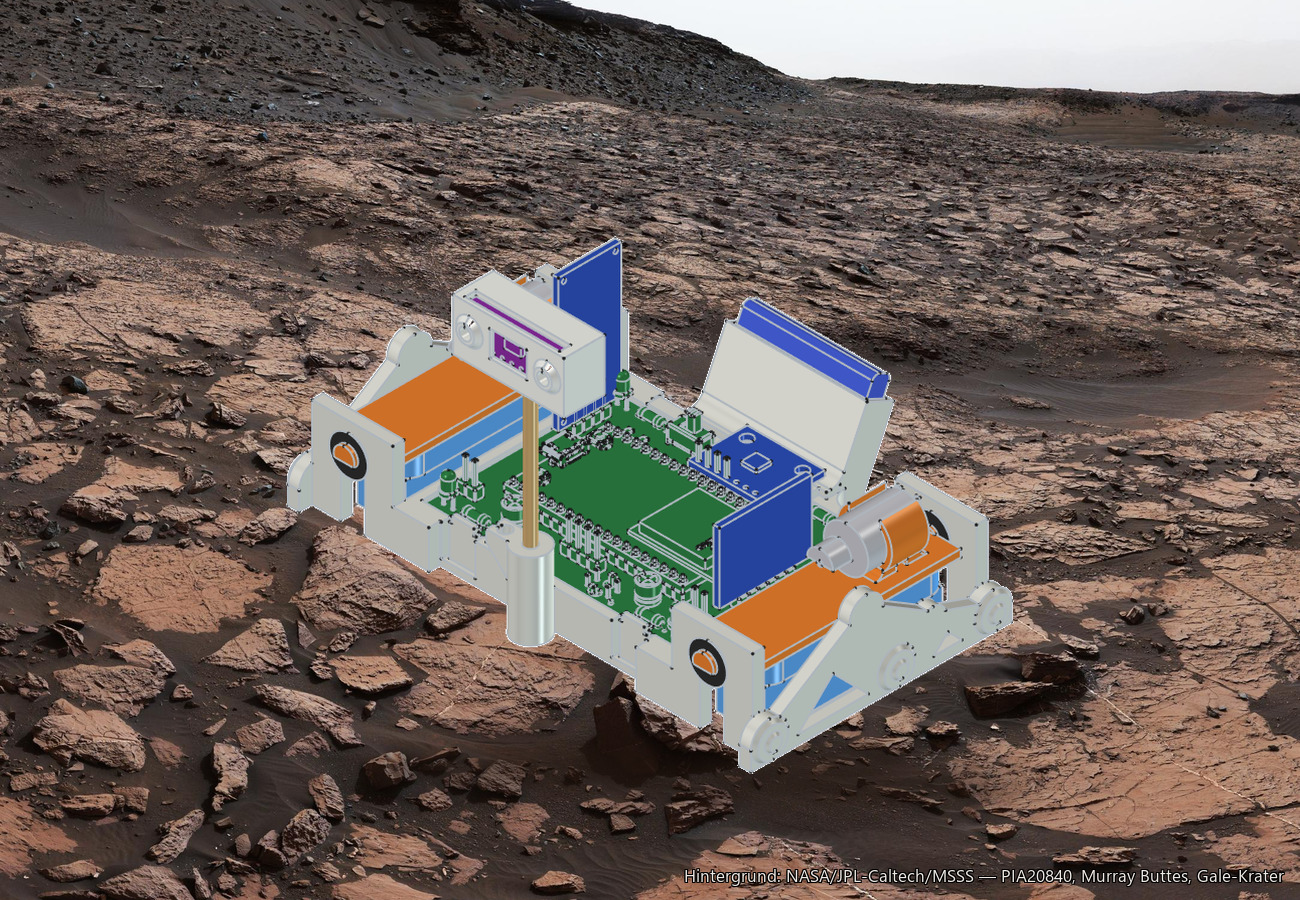
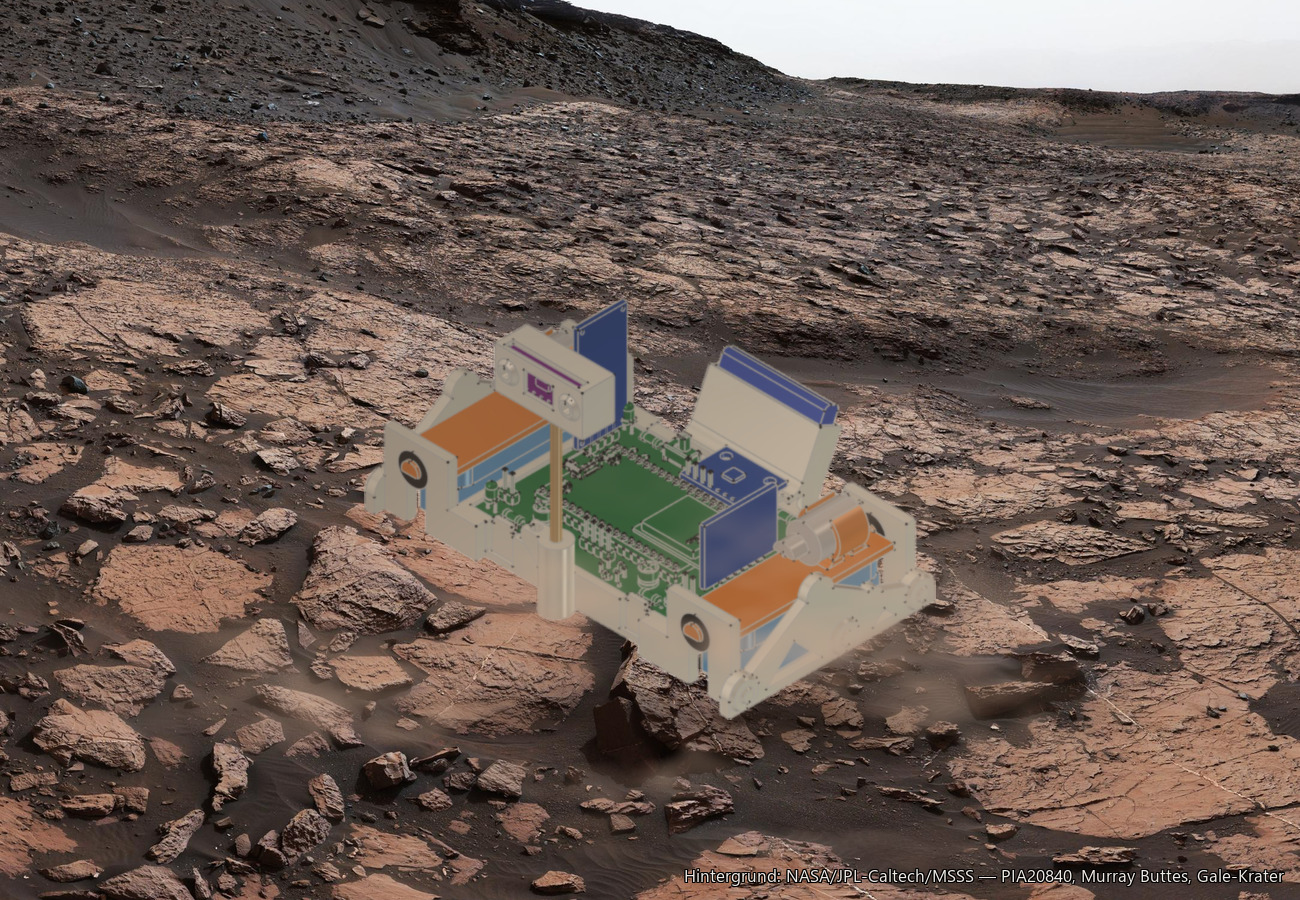
Titelbild natuerlicher: Licht angeglichen, Kanten weich, Staubwolke davor
Der erste Wurf sah nach aufgeklebt aus. Gegenmittel, alle als Stellschrauben
in Gehaeuse_CAD/montage_marslandschaft.py:

* kleiner und hoeher gesetzt (44 % Bildbreite, Aufstandslinie bei 80 %)
* Alphakante 1,6 px weichgezeichnet und nachgezogen, damit sie nicht
  aufquillt; Farbkanal um 0,7 px entschaerft
* Beleuchtung: FreeCAD leuchtet aus der Kamera, gleichmaessig. Im
  Hintergrund steht die Sonne oben links -- an den Steinen abgelesen, helle
  Flanke links, Schatten nach rechts unten. Also gerichteter Verlauf
  +-24 %, dazu 10 % dunkler, waermerer Grundton, 20 % weniger Farbigkeit
* weicher Wurfschatten nach rechts unten PLUS schmaler Kontaktschatten
  direkt unter dem Fahrwerk, sonst schwebt er
* 20 % Hintergrundfarbe eingemischt (Luftperspektive)

Staubwolke davor: in X gestrecktes Rauschen aus drei Oktaven ergibt
windgezogene Schlieren, drei Schwaden statt einer gleichmaessigen Wolke.
Entscheidend war, dass Staub nicht nur aufhellt, sondern dem Untergrund
auch die Zeichnung nimmt -- Aufhellen allein wirkt wie ein Schleier ueber
dem ganzen Bild. Maske: Spitze 0,47, 4 % der Flaeche.

Changed region(s): [[0.1231, 0.2489, 0.8308, 0.9022], [0.7077, 0.84, 0.8, 0.9022], [0.6769, 0.8711, 0.7077, 0.9022]]

diff --git a/Gehaeuse_CAD/montage_marslandschaft.py b/Gehaeuse_CAD/montage_marslandschaft.py
@@ -1,0 +1,129 @@
+# Rover in die Marslandschaft einpassen: Groesse, Licht, Kanten, Staub.
+import os, sys
+import numpy as np
+from PIL import Image, ImageFilter, ImageDraw, ImageFont
+
+SP = sys.argv[1]
+ZIEL = (1300, 900)
+W, H = ZIEL
+
+# ---------- Stellschrauben ----------
+GROESSE   = 0.44    # Breite des Rovers als Anteil der Bildbreite (kleiner = weiter hinten)
+BODEN     = 0.80    # Hoehe, auf der er aufsetzt (hoeher im Bild = weiter hinten)
+DUNST     = 0.20    # wieviel Hintergrundfarbe in den Rover gemischt wird (Luftperspektive)
+SATT      = 0.80    # Farbigkeit des Rovers (1 = wie gerendert)
+WEICH     = 1.6     # Weichzeichnung der Silhouettenkante in Pixeln
+LICHT     = (-1.0, -1.0)   # Sonnenrichtung in Bildkoordinaten: von oben links
+STAUB     = 0.80    # Staerke der Staubwolke
+
+hg = Image.open(os.path.join(SP, "hintergrund.png")).convert("RGB")
+
+# ---------- Rover vorbereiten ----------
+rov = Image.open(os.path.join(SP, "rover_freigestellt.png")).convert("RGBA")
+rov = rov.crop(rov.getchannel("A").getbbox())
+bw = int(W * GROESSE)
+bh = int(rov.size[1] * bw / rov.size[0])
+rov = rov.resize((bw, bh), Image.LANCZOS)
+px, py = (W - bw) // 2, int(H * BODEN) - bh
+
+rgb = np.asarray(rov.convert("RGB"), dtype=np.float32) / 255.0
+alpha = np.asarray(rov.getchannel("A"), dtype=np.float32) / 255.0
+
+# ---------- Licht: gerichteter Verlauf statt FreeCADs Kameralicht ----------
+yy, xx = np.mgrid[0:bh, 0:bw].astype(np.float32)
+nx = (xx / bw - 0.5) * 2.0
+ny = (yy / bh - 0.5) * 2.0
+lx, ly = LICHT
+richt = -(nx * lx + ny * ly) / np.sqrt(lx * lx + ly * ly) / 2.0     # -1 .. +1
+hell = 1.0 + richt * 0.24                                          # oben links heller
+rgb *= hell[..., None]
+rgb *= 0.90                                                        # Mars bekommt weniger Sonne
+rgb *= np.array([1.075, 0.995, 0.885], dtype=np.float32)           # warmer Grundton
+
+grau = (rgb * np.array([0.299, 0.587, 0.114], dtype=np.float32)).sum(-1, keepdims=True)
+rgb = grau * (1.0 - SATT) + rgb * SATT
+
+# ---------- Luftperspektive: Hintergrundfarbe einmischen ----------
+umfeld = np.asarray(hg.crop((px, py, px + bw, py + bh)).filter(
+    ImageFilter.GaussianBlur(40)), dtype=np.float32) / 255.0
+rgb = rgb * (1.0 - DUNST) + umfeld * DUNST
+rgb = np.clip(rgb, 0.0, 1.0)
+
+rov = Image.fromarray((rgb * 255).astype(np.uint8), "RGB")
+rov = rov.filter(ImageFilter.GaussianBlur(0.7))                    # Kanten nicht knackscharf
+
+# Silhouette weichzeichnen, aber nicht aufblaehen
+a = Image.fromarray((alpha * 255).astype(np.uint8), "L").filter(ImageFilter.GaussianBlur(WEICH))
+a = a.point(lambda v: max(0, min(255, int((v - 40) * 255 / 190))))
+rov.putalpha(a)
+
+# ---------- Schlagschatten nach rechts unten ----------
+sh_h = max(1, int(bh * 0.15))
+sch = Image.new("L", ZIEL, 0)
+sch.paste(a.resize((bw, sh_h), Image.LANCZOS), (px + int(bw * 0.07), int(H * BODEN) - sh_h // 2))
+sch = sch.filter(ImageFilter.GaussianBlur(15)).point(lambda v: int(v * 0.52))
+# Kontaktschatten: schmaler, dunkler, direkt unter dem Fahrwerk
+k_h = max(1, int(bh * 0.055))
+kon = Image.new("L", ZIEL, 0)
+kon.paste(a.crop((0, int(bh * 0.86), bw, bh)).resize((int(bw * 0.92), k_h), Image.LANCZOS),
+          (px + int(bw * 0.055), int(H * BODEN) - k_h // 2))
+kon = kon.filter(ImageFilter.GaussianBlur(5)).point(lambda v: int(v * 0.80))
+sch = Image.fromarray(np.maximum(np.asarray(sch), np.asarray(kon)), "L")
+bild = Image.composite(Image.new("RGB", ZIEL, (30, 18, 12)), hg, sch).convert("RGBA")
+bild.alpha_composite(rov, (px, py))
+
+# ---------- Staubwolke davor ----------
+def rauschen(form, k, saat):
+    r = np.random.default_rng(saat)
+    klein = r.random((max(2, form[0] // k), max(2, form[1] // k))).astype(np.float32)
+    g = Image.fromarray((klein * 255).astype(np.uint8), "L").resize((form[1], form[0]), Image.BICUBIC)
+    return np.asarray(g, dtype=np.float32) / 255.0
+
+def gezogen(k, saat, streckung):
+    """Rauschen, in X gestreckt -- das ergibt vom Wind gezogene Schlieren."""
+    r = np.random.default_rng(saat)
+    klein = r.random((max(2, H // k), max(2, int(W / (k * streckung))))).astype(np.float32)
+    g = Image.fromarray((klein * 255).astype(np.uint8), "L").resize((W, H), Image.BICUBIC)
+    return np.asarray(g, dtype=np.float32) / 255.0
+
+n = (gezogen(70, 3, 3.2) * 0.5 + gezogen(34, 11, 2.6) * 0.32 + gezogen(14, 23, 2.0) * 0.18)
+n = (n - n.min()) / (n.max() - n.min())
+
+Y, X = np.mgrid[0:H, 0:W].astype(np.float32)
+basis = H * BODEN
+hoehe = np.exp(-np.clip(basis - Y, 0, None) ** 2 / (2 * (bh * 0.30) ** 2))   # nach oben auslaufend
+hoehe *= np.exp(-np.clip(Y - basis, 0, None) ** 2 / (2 * (bh * 0.22) ** 2))  # nach unten auslaufend
+# drei Schwaden statt einer gleichmaessigen Wolke
+seite = np.zeros_like(X)
+for mx, br, st in ((0.18, 0.30, 1.00), (0.62, 0.22, 0.85), (0.92, 0.26, 0.70)):
+    seite = np.maximum(seite, st * np.exp(-((X - (px + bw * mx)) ** 2) / (2 * (bw * br) ** 2)))
+maske = np.clip((n - 0.46) / 0.40, 0, 1) ** 1.1 * hoehe * seite * STAUB
+maske = np.clip(maske, 0, 0.78)
+print("   Staubmaske: Spitze %.2f, Flaeche ueber 0.2: %.1f%%"
+      % (maske.max(), 100.0 * (maske > 0.2).mean()))
+
+# Staub streut das Licht: er nimmt dem Untergrund die Zeichnung UND hellt ihn auf.
+# Beides zusammen laesst ihn erst als Staub lesen, Aufhellen allein wirkt wie ein Schleier.
+b = np.asarray(bild.convert("RGB"), dtype=np.float32) / 255.0
+weich = np.asarray(bild.convert("RGB").filter(ImageFilter.GaussianBlur(7)),
+                   dtype=np.float32) / 255.0
+m = maske[..., None]
+b = b * (1 - m * 0.85) + weich * (m * 0.85)
+staub_farbe = np.array([0.80, 0.655, 0.555], dtype=np.float32)
+b = b * (1 - m) + staub_farbe * m
+bild = Image.fromarray((np.clip(b, 0, 1) * 255).astype(np.uint8), "RGB")
+
+# ---------- Quellenangabe ----------
+text = "Hintergrund: NASA/JPL-Caltech/MSSS \u2014 PIA20840, Murray Buttes, Gale-Krater"
+schrift = ImageFont.truetype(r"C:\Windows\Fonts\segoeui.ttf", 17)
+d = ImageDraw.Draw(bild)
+tb = d.textbbox((0, 0), text, font=schrift)
+tx, ty = W - (tb[2] - tb[0]) - 16, H - (tb[3] - tb[1]) - 20
+for dx in (-1, 0, 1):
+    for dy in (-1, 0, 1):
+        if dx or dy:
+            d.text((tx + dx, ty + dy), text, font=schrift, fill=(0, 0, 0))
+d.text((tx, ty), text, font=schrift, fill=(240, 234, 228))
+
+bild.save(os.path.join(SP, "montage2.png"))
+print("Rover %d x %d bei (%d, %d) -- fertig" % (bw, bh, px, py))

diff --git a/00_Projekt-Log.md b/00_Projekt-Log.md
@@ -343,7 +343,25 @@ das eigene Deck im Bild hätte nur verwirrt. Gewählt: x 5600, y 600, 2167 × 15
 mit Horizont im oberen Drittel und freiem Boden davor. Der Schatten ist die
 flachgedrückte Silhouette des Rovers, versetzt und weichgezeichnet.
 
-Format jetzt JPEG statt PNG: als Fotomontage wäre das PNG 2,1 MB groß, die
+Der erste Versuch sah noch nach aufgeklebt aus. Was dagegen hilft, steckt jetzt
+in `Gehaeuse_CAD/montage_marslandschaft.py` und ist über Stellschrauben oben in
+der Datei einstellbar:
+
+| Problem | Gegenmittel |
+|---|---|
+| klebte im Vordergrund | kleiner (44 % der Bildbreite) und höher gesetzt (Aufstandslinie bei 80 %) |
+| zu scharfe Silhouette | Alphakante um 1,6 px weichgezeichnet, danach nachgezogen, damit sie nicht aufquillt; Farbkanal um 0,7 px entschärft |
+| Beleuchtung passte nicht | FreeCAD leuchtet aus der Kamera, gleichmäßig. Im Hintergrund steht die Sonne **oben links** — an den Steinen abgelesen: helle Flanke links, Schatten nach rechts unten. Also ein gerichteter Verlauf ±24 %, dazu 10 % dunkler, wärmerer Grundton und 20 % weniger Farbigkeit |
+| hing in der Luft | weicher Wurfschatten nach rechts unten **plus** schmaler Kontaktschatten direkt unter dem Fahrwerk |
+| wirkte wie ausgeschnitten | 20 % Hintergrundfarbe eingemischt (Luftperspektive) |
+
+Dazu eine **Staubwolke davor**: in X gestrecktes Rauschen aus drei Oktaven ergibt
+windgezogene Schlieren, drei Schwaden statt einer gleichmäßigen Wolke. Wichtig
+war, dass Staub nicht nur aufhellt, sondern dem Untergrund auch die **Zeichnung
+nimmt** — Aufhellen allein sieht aus wie ein Schleier über dem Bild. Spitzenwert
+der Maske 0,47, betroffen sind 4 % der Fläche.
+
+Format JPEG statt PNG: als Fotomontage wäre das PNG 2,1 MB groß, die
 JPEG-Fassung mit Qualität 92 und ohne Chroma-Unterabtastung sind 0,6 MB bei
 scharfen CAD-Kanten. **Die vier übrigen Ansichten** (Heck, Seite, oben, unten)
 zeigen noch den alten Stand mit zwei Motorschellen und schwarzem Mast.
